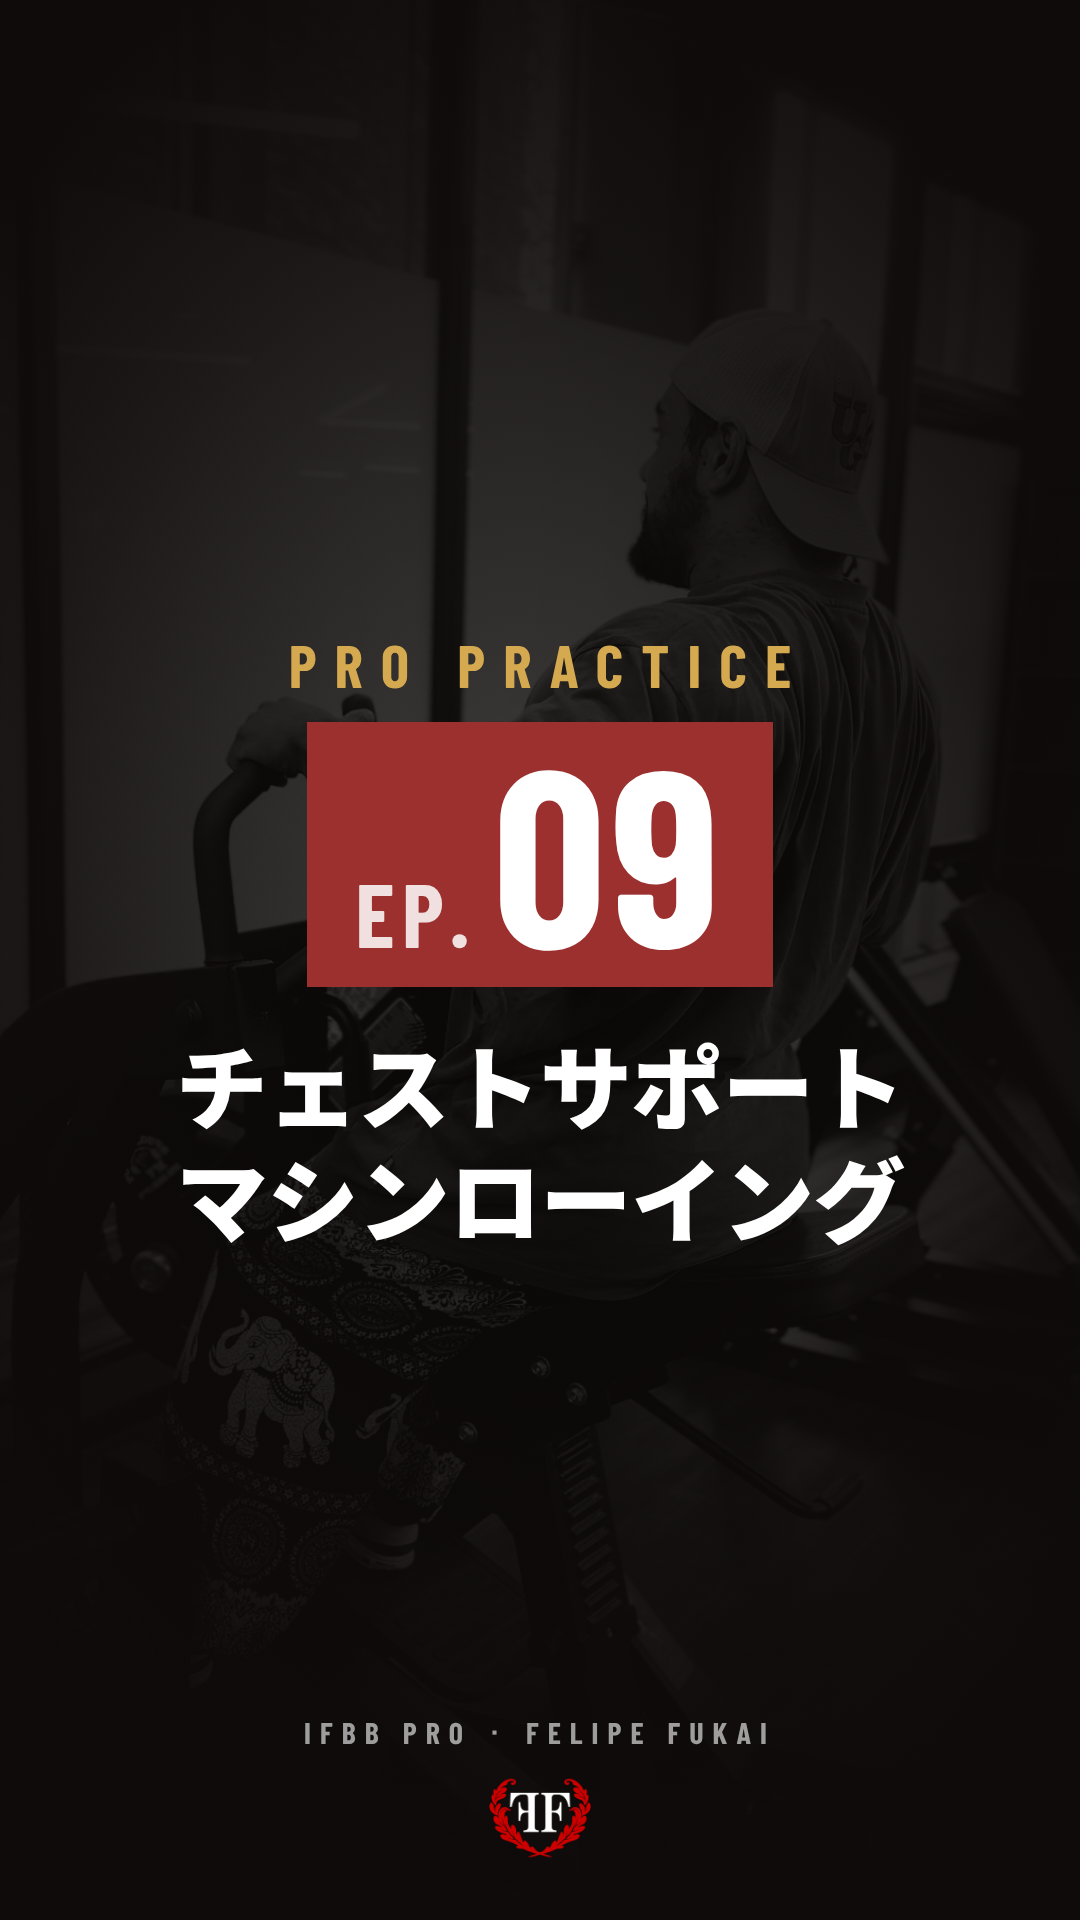
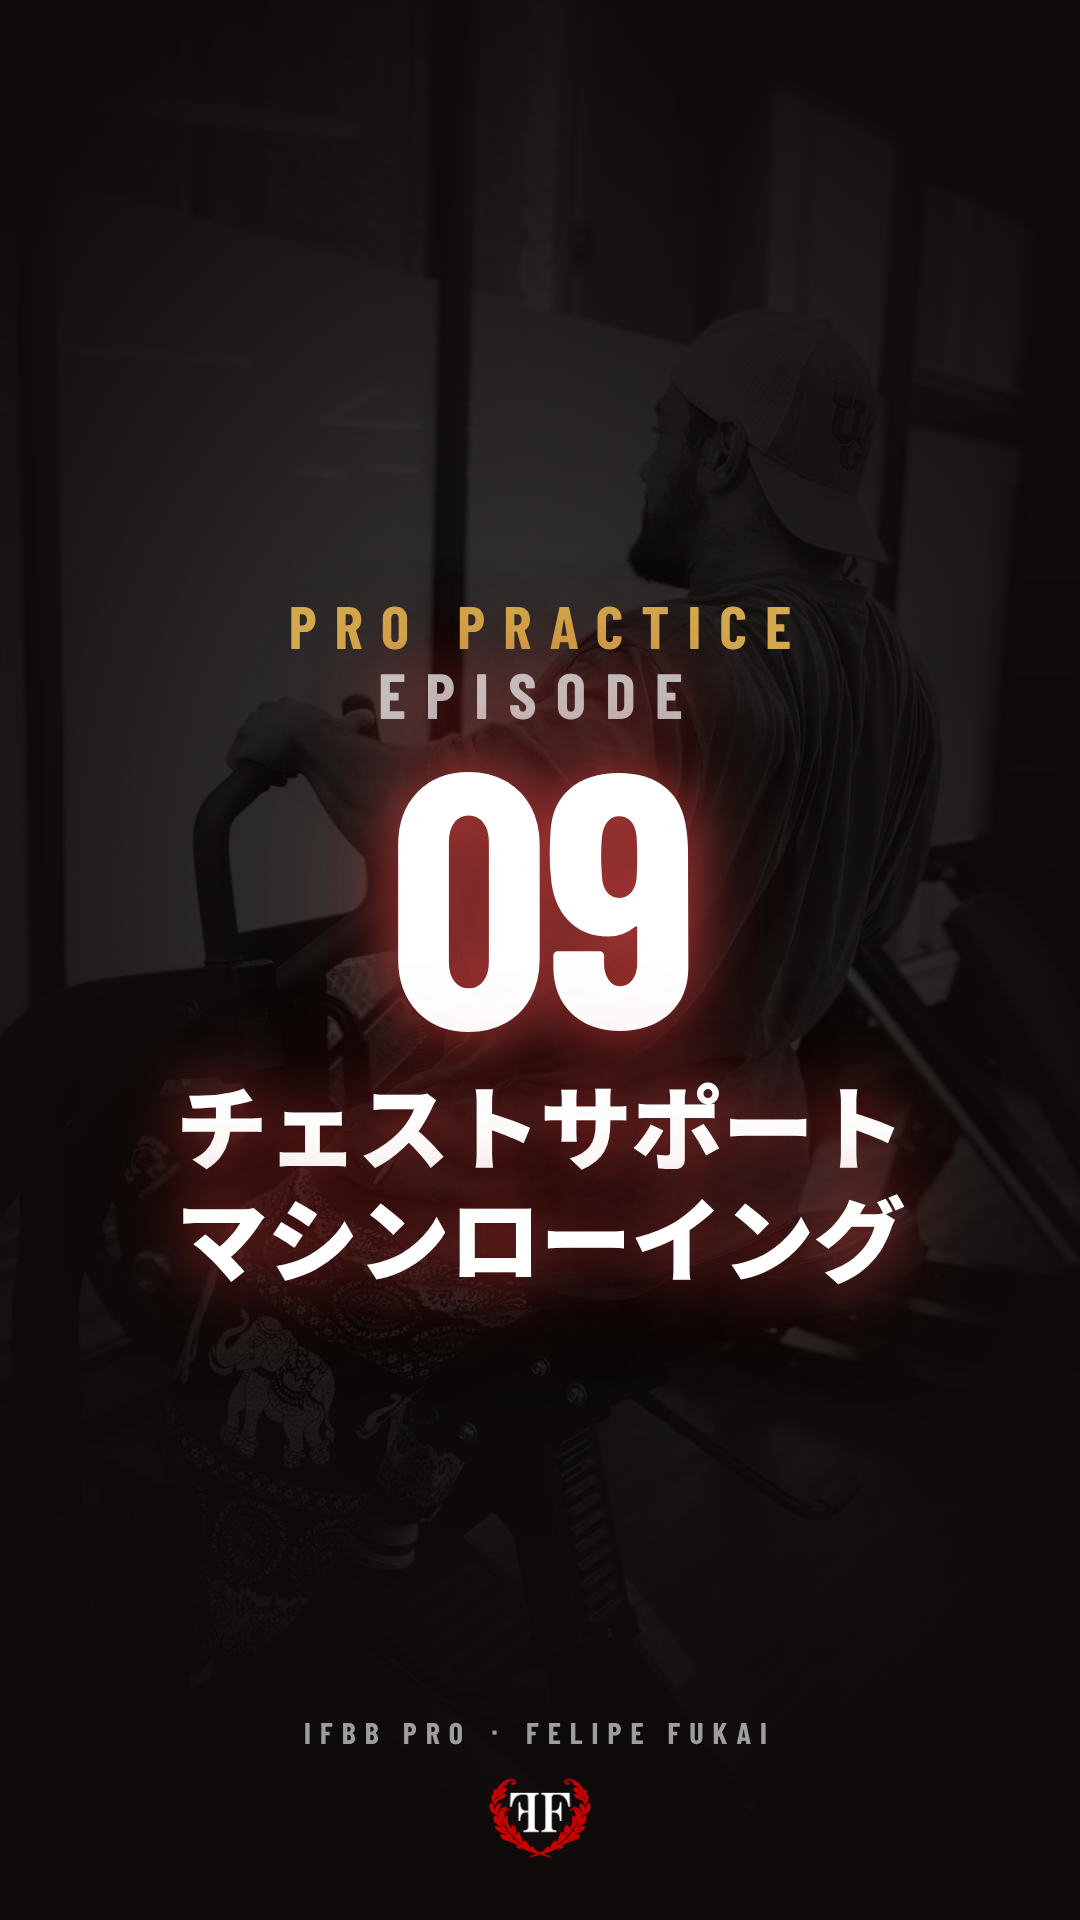
PRO PRACTICE covers: white number with red glow (#56)
* Add UPPER DAY YouTube thumbnails (part 1, 2) and the series thumbnail template

Claude-Session: https://claude.ai/code/session_01HRty6kL8VRnpLHHHzSF3iS

* UPPER DAY thumbnails: reframe to keep the face visible and hide the burned-in caption

Claude-Session: https://claude.ai/code/session_01HRty6kL8VRnpLHHHzSF3iS

* UPPER DAY thumbnails v2: loud yellow/red creator style, distinct from the community look

Claude-Session: https://claude.ai/code/session_01HRty6kL8VRnpLHHHzSF3iS

* UPPER DAY thumbnails v3: competition roar photo plus gym face chip

Claude-Session: https://claude.ai/code/session_01HRty6kL8VRnpLHHHzSF3iS

* UPPER DAY thumbnails: soften hook to Felipe's voice

Claude-Session: https://claude.ai/code/session_01HRty6kL8VRnpLHHHzSF3iS

* UPPER DAY thumbnails: keep the hook line on one row

Claude-Session: https://claude.ai/code/session_01HRty6kL8VRnpLHHHzSF3iS

* UPPER DAY thumbnails: hook label on one line

Claude-Session: https://claude.ai/code/session_01HRty6kL8VRnpLHHHzSF3iS

* UPPER DAY thumbnails on the brand guide: FF black base, white type, laurel red as the single accent, gym press photo; add visual identity PDF

Claude-Session: https://claude.ai/code/session_01HRty6kL8VRnpLHHHzSF3iS

* UPPER DAY thumbnail: three promise-led headline variants on the brand template

Claude-Session: https://claude.ai/code/session_01HRty6kL8VRnpLHHHzSF3iS

* Add post-live story images (thanks + next live 11/23) and story template
[…]

Changed region(s): [[0.1528, 0.3125, 0.8556, 0.6875]]

diff --git a/assets/ig/pro-practice/cover-template.html b/assets/ig/pro-practice/cover-template.html
@@ -8,22 +8,21 @@ body{font-family:"NS",sans-serif;color:#fff;position:relative}
 .fade{position:absolute;inset:0;background:radial-gradient(ellipse 70% 55% at 50% 48%,rgba(14,11,10,0) 0%,rgba(14,11,10,.75) 70%,#0E0B0A 100%)}
 .wrap{position:absolute;left:72px;right:72px;top:0;bottom:0;display:flex;flex-direction:column;align-items:center;justify-content:center;text-align:center;padding-bottom:40px}
 .lbl{font-family:"BC",sans-serif;font-size:60px;letter-spacing:.3em;color:#D4A94F;margin-left:.3em}
-.ep{font-family:"BC",sans-serif;font-size:250px;line-height:.9;letter-spacing:.02em;color:#fff;margin:22px 0 40px;background:#9C302E;padding:14px 48px 26px;display:inline-flex;align-items:baseline}
-.ep small{font-size:90px;letter-spacing:.08em;margin-right:16px;color:rgba(255,255,255,.85)}
+.ep{font-family:"BC",sans-serif;font-size:360px;line-height:.85;letter-spacing:-.02em;color:#fff;margin:6px 0 30px}
+.ep small{font-size:64px;letter-spacing:.3em;color:rgba(255,255,255,.7);display:block;margin-bottom:10px;font-family:"BC",sans-serif}
 .bar{display:none}
 .name{font-size:92px;font-weight:900;line-height:1.22;letter-spacing:-.01em}
 .name.long{font-size:80px}
 .sub{font-size:40px;font-weight:700;color:rgba(255,255,255,.8);margin-top:18px}
 .pro{position:absolute;left:0;right:0;bottom:170px;text-align:center;font-family:"BC",sans-serif;font-size:30px;letter-spacing:.3em;color:rgba(255,255,255,.6)}
 .logo{position:absolute;left:50%;transform:translateX(-50%);bottom:60px;height:84px}
+.ep,.name{text-shadow:0 0 60px rgba(185,58,56,.95),0 0 120px rgba(185,58,56,.6)}
 </style></head><body>
 <div class="bg"></div><div class="fade"></div>
 <div class="wrap">
   <p class="lbl">PRO PRACTICE</p>
-  <p class="ep"><small>EP.</small>01</p>
-  <div class="bar"></div>
+  <p class="ep"><small>EPISODE</small>01</p>
   <p class="name long">プレートロード<br>インクラインプレス</p>
-  
 </div>
 <p class="pro">IFBB PRO ・ FELIPE FUKAI</p>
 <img class="logo" src="logo.png" alt="">
